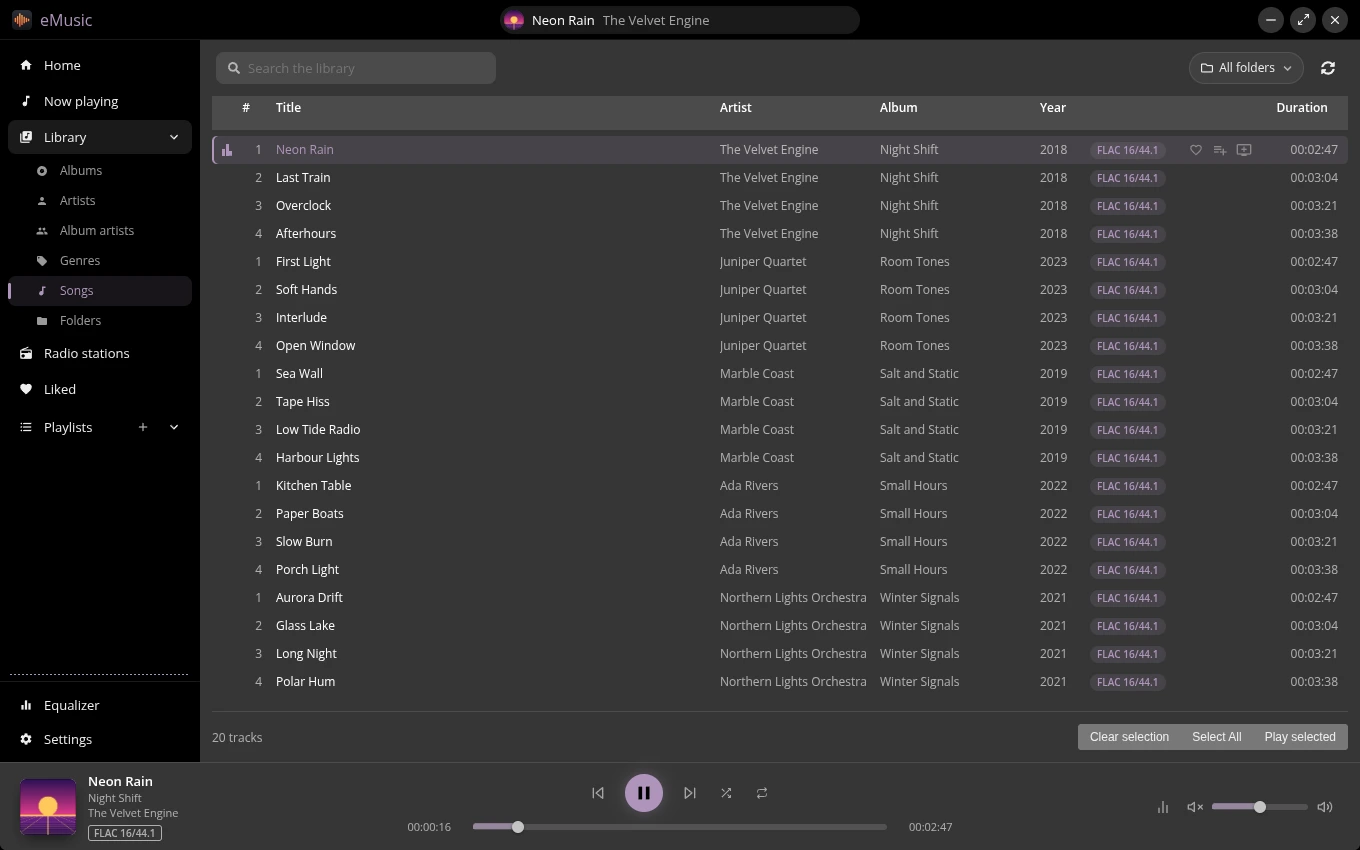
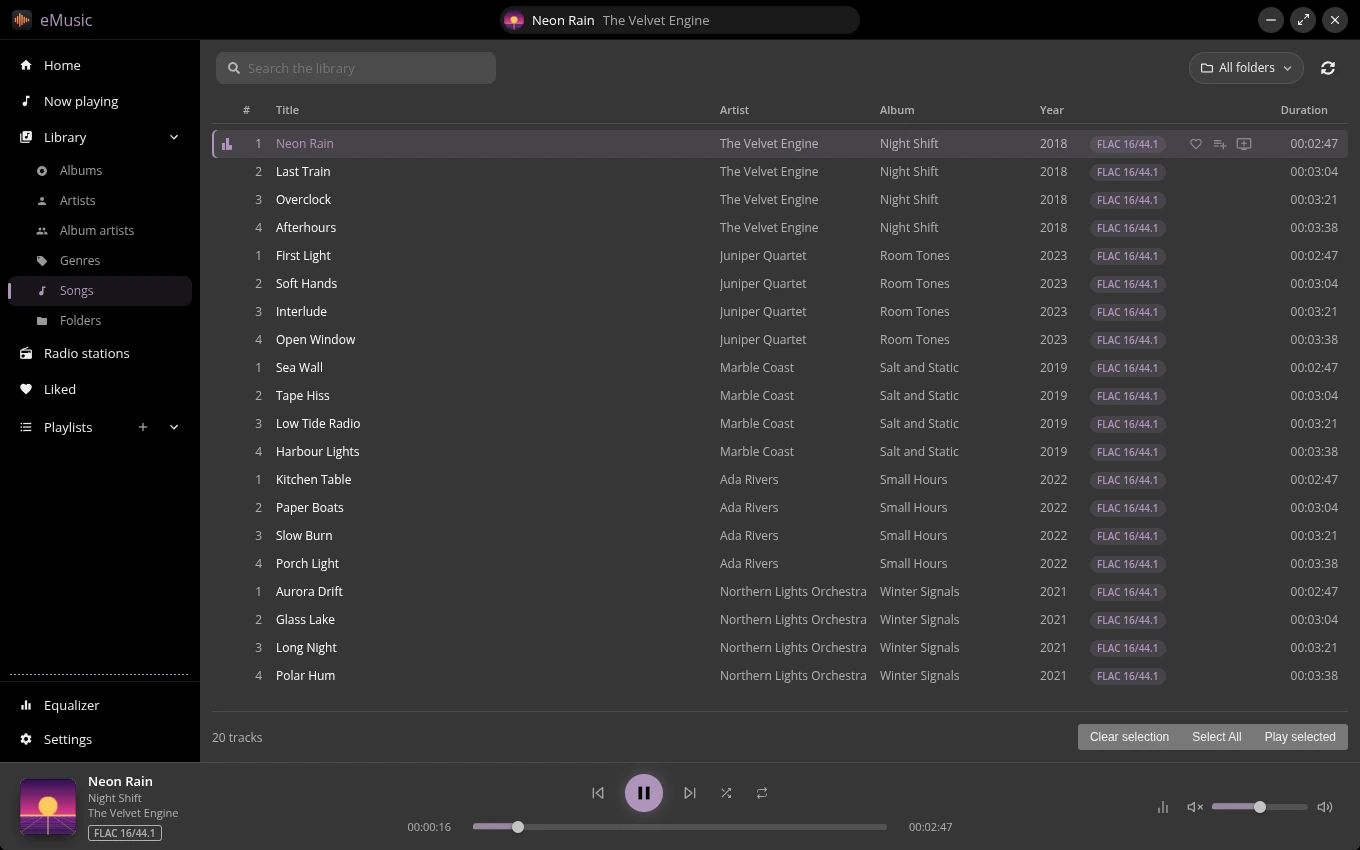
Draw the header of the songs table as flat labels over a hairline

diff --git a/components/track-view-item/TrackViewItem.scss b/components/track-view-item/TrackViewItem.scss
@@ -18,10 +18,22 @@
     }
   }
 
+  // flat labels over a hairline, the sorted column in the text colour
   &.header {
+    height: 28px;
+    line-height: 28px;
     font-weight: 600;
-    background: var(--overlay);
-    padding: 3px 0;
+    color: var(--text-muted);
+    border-bottom: 1px solid var(--overlay);
+
+    .field {
+      font-size: 11px;
+    }
+
+    .field[aria-sort='ascending'],
+    .field[aria-sort='descending'] {
+      color: var(--text);
+    }
   }
 
   &.selected,
